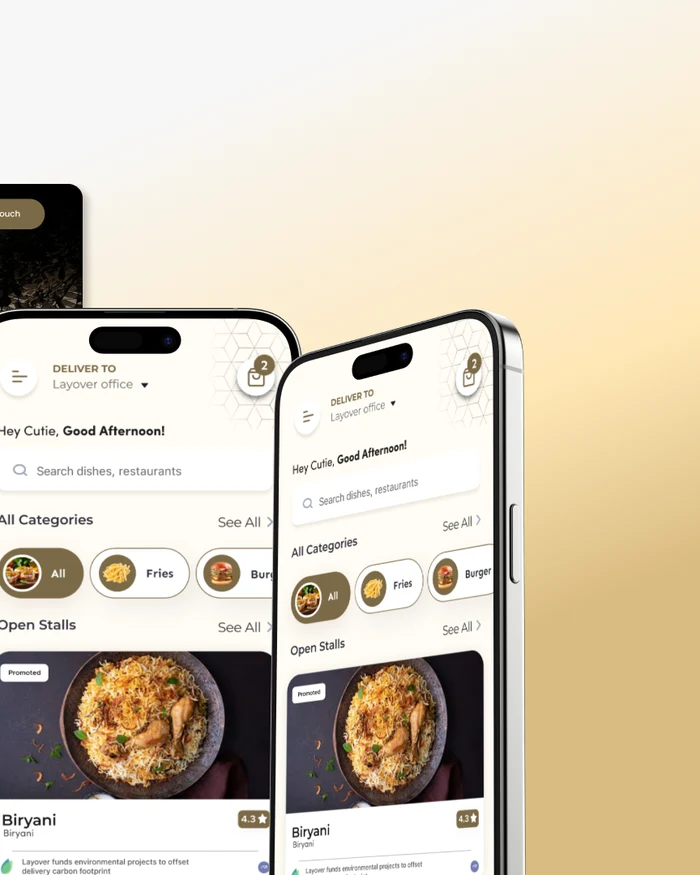
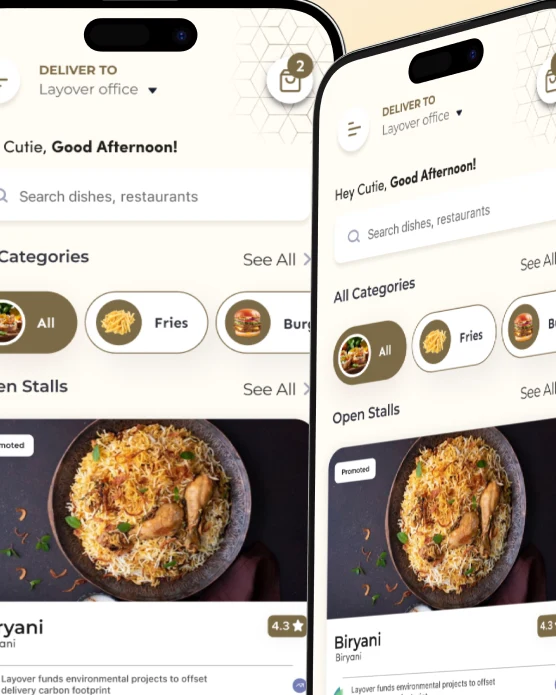
Design: recrop layover's cover, and let futurepreneurs' run longer
Follow-up to the cover-photo swap after seeing it live: layover's crop
had a dark sliver of the source slide's laptop mockup bleeding in at
the top-left, and both phones sat small at the bottom of mostly-empty
gradient - not the centred, prominent shot it needed to be. Traced the
sliver to the laptop's screen edge, exposed above the phones in the
gap between where my crop started (y=340) and where the phones actually
begin (y=385) - the phone sits in front of the laptop in the source
composition, so anything cropped in above the phone's own top edge
shows laptop, not background. Raised the crop to start exactly there:
box (1082, 385, 1638, 1080). No more bleed, both phones fill the frame.

Futurepreneurs needed to run "longer" - more of the source visible, not
zoomed in so tight. That can't be done by re-cropping the asset alone:
under object-fit:cover with a fixed-width source, the rendered crop
height is always source_width / board_ratio, no matter how much
vertical content the pre-crop itself has - cover always re-crops back
down to whatever the box's own ratio demands. Loosened the board's own
aspect-ratio instead, 8/3 to 2/1 (design-world.css) - safe to touch
because futurepreneurs is the only project using size:"wide", so no
other board shares this box. Recropped to match: 90-460 vertically,
the full laptop plus a strip of the colourful desk reflection beneath
it, instead of the old 8/3 crop's laptop-screen-only strip.
[…]

diff --git a/src/design-world.css b/src/design-world.css
@@ -799,8 +799,17 @@
   transform: rotate(1.6deg);
 }
 
+/* Was 8/3: under object-fit:cover with a fixed-width source, the rendered
+   crop height is always source_width / this ratio, no matter how much
+   vertical content the source image itself has - a taller pre-crop gets
+   re-cropped straight back down to whatever this ratio demands. So the ONLY
+   way to show more of Futurepreneurs' cover (the ask that started this) was
+   loosening the ratio itself, not re-exporting the asset. Safe to touch here
+   because futurepreneurs is the only project using size:"wide" - nothing
+   else shares this box. See scripts/build_project_covers.py for the crop
+   this ratio now pairs with. */
 .dw-board--wide .dw-board-art {
-  aspect-ratio: 8 / 3;
+  aspect-ratio: 2 / 1;
   transform: rotate(-0.6deg);
 }
 
@@ -1081,7 +1090,7 @@
   }
 
   .dw-board--wide .dw-board-art {
-    aspect-ratio: 16 / 10; /* the 8:3 letterbox is too shallow at phone width */
+    aspect-ratio: 16 / 10; /* the desktop 2/1 is still too shallow at phone width - height would be a mere 195px at 390px wide, versus 244px here */
   }
 }
 

diff --git a/src/projects.js b/src/projects.js
@@ -8,7 +8,7 @@
 //
 // `size` is not decoration: it picks the board slot, and that slot is a fixed
 // CSS aspect-ratio box (design-world.css: lg 16/10, sm 4/5 portrait, wide
-// 8/3). `cover` has to already be cropped to roughly that ratio — see
+// 2/1). `cover` has to already be cropped to roughly that ratio — see
 // scripts/build_project_covers.py, which is also the record of where each
 // crop landed and why. Reorder this array and the canvas follows.
 //

diff --git a/scripts/build_project_covers.py b/scripts/build_project_covers.py
@@ -1,25 +1,39 @@
 """Cuts the three "selected work" board covers from her raw exports.
 
 Each board is a fixed CSS aspect-ratio box (design-world.css: lg 16/10, sm
-4/5, wide 8/3) that used to hold a decorative SVG sketch. These replace it
-with real photos, pre-cropped here rather than left to CSS object-fit:cover
-on the raw file, because two of the three sources don't match their board's
-aspect at all:
+4/5, wide 2/1 — wide was 8/3 until this pass, see below) that used to hold a
+decorative SVG sketch. These replace it with real photos, pre-cropped here
+rather than left to CSS object-fit:cover on the raw file, because two of the
+three sources don't match their board's aspect at all:
 
   meal-maestro (lg, 16/10=1.6): source is already 1400x870=1.609 - a near
   no-op trim, 4px off each side.
 
   layover (sm, 4/5=0.8, PORTRAIT): source is a 1920x1080 LANDSCAPE slide -
-  the exact opposite orientation. A blind centre-crop lands on the dark
-  laptop mockup and misses both phones almost entirely. Cropped instead to
-  the two-phone cluster on the right (x 1056-1920), which is what a phone-
-  shaped portrait board should show anyway.
+  the exact opposite orientation. Two passes to get here, both by drawing
+  candidate boxes over the source and looking, not by computing coordinates
+  blind: pass 1 cropped the full height at the two-phone cluster and looked
+  wrong on arrival (phones small at the bottom of empty gradient). Pass 2
+  raised the crop's top edge, but only as far as y=340 - still 45px into the
+  gap where the DARK LAPTOP MOCKUP's edge is exposed just above the phones
+  (the phone doesn't visually start until y=385, and the laptop sits behind
+  it, so anything above y=385 in that x-range shows laptop, not phone or
+  background). The fix was raising y0 again, to right where the phone
+  actually begins (y=385) rather than stopping at a number that merely looked
+  close. Final box (1082, 385, 1638, 1080): starts exactly at the phones' top
+  edge, no laptop, both phones filling the frame centred.
 
-  futurepreneurs (wide, 8/3=2.667): source is 814x580=1.403, much closer to
-  square than the letterbox target. Centre-cropped vertically, nudged 15px
-  up off true-centre to favour the laptop screen over the black desk below
-  it - the title and gradient sit centred in the result, the white margin
-  above and the desk below are what's cut.
+  futurepreneurs (wide, was 8/3=2.667, now 2/1=2.0): source is 814x580=1.403,
+  much closer to square than either letterbox ratio. IMPORTANT: under
+  object-fit:cover with a fixed-width source, the RENDERED crop height is
+  always source_width / board_ratio, no matter how tall a region is cropped
+  here — cover always re-crops back down to whatever the box demands. So
+  "show more of the image" is not something this script can do alone; the
+  board's own aspect-ratio had to change too (done in design-world.css,
+  desktop only — futurepreneurs is the only project using size:"wide", so
+  nothing else shares this box). At 2/1 the crop runs 90-460 vertically,
+  which is the full laptop plus a strip of the colourful desk reflection
+  under it, instead of the tight 8/3 crop's laptop-screen-only strip.
 
 Run from the repo root: python scripts/build_project_covers.py
 """
@@ -41,16 +55,15 @@ JOBS = [
         "name": "layover",
         "src": r"C:\Users\heave\Downloads\LAYOVER\Slide 16_9 - 7.png",
         "out": ROOT + r"\public\work\layover\cover.webp",
-        "target_ratio": 4 / 5,
-        "crop": "box",
-        "box_center_x": 1560,
+        "crop": "explicit",
+        "box": (1082, 385, 1638, 1080),
         "resize_width": 700,
     },
     {
         "name": "futurepreneurs",
         "src": r"C:\Users\heave\OneDrive\Pictures\Screenshots\Screenshot 2026-07-30 210711.png",
         "out": ROOT + r"\public\work\futurepreneurs\cover.webp",
-        "target_ratio": 8 / 3,
+        "target_ratio": 2 / 1,
         "crop": "center",
         "center_nudge_y": -15,
         "resize_width": 1200,
@@ -60,9 +73,12 @@ JOBS = [
 for job in JOBS:
     im = Image.open(job["src"]).convert("RGB")
     w, h = im.size
-    ratio = job["target_ratio"]
 
-    if job["crop"] == "center":
+    if job["crop"] == "explicit":
+        box = job["box"]
+        ratio = (box[2] - box[0]) / (box[3] - box[1])
+    elif job["crop"] == "center":
+        ratio = job["target_ratio"]
         if w / h > ratio:
             # source proportionally wider than target: crop width, keep height
             crop_h = h
@@ -78,6 +94,7 @@ for job in JOBS:
             x0 = 0
         box = (x0, y0, x0 + crop_w, y0 + crop_h)
     else:  # "box" - horizontal crop centred on a named x, full height
+        ratio = job["target_ratio"]
         crop_h = h
         crop_w = int(round(crop_h * ratio))
         cx = job["box_center_x"]
